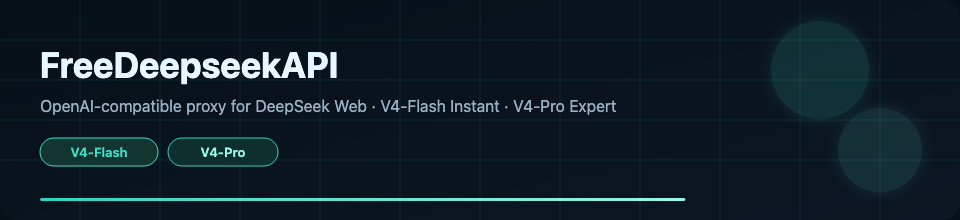
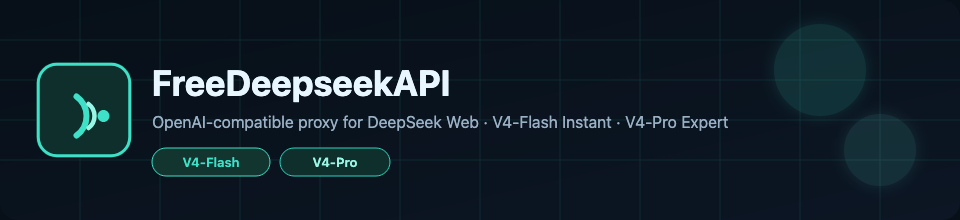
Docs
Changes:

- Add a teal mark to the README header and drop the loading GIF

Changed region(s): [[0.0312, 0.2182, 0.7812, 0.8182], [0.0312, 0.9, 0.7188, 0.9273]]

diff --git a/README.ru.md b/README.ru.md
@@ -1,12 +1,8 @@
 <div align="center">
 
-<img src="docs/assets/header.gif" alt="FreeDeepseekAPI" width="960" />
+<img src="docs/assets/header.png" alt="FreeDeepseekAPI" width="960" />
 
 [English](README.md) · **Русский** · [简体中文](README.zh.md)
-
-<br/>
-
-<img src="https://readme-typing-svg.demolab.com?font=IBM+Plex+Sans&weight=600&size=20&duration=2800&pause=900&color=3EE0C8&center=true&vCenter=true&width=720&lines=%D0%9B%D0%BE%D0%BA%D0%B0%D0%BB%D1%8C%D0%BD%D1%8B%D0%B9+API+%D0%BD%D0%B0%D0%B4+DeepSeek+Web;V4-Flash+Instant+%C2%B7+V4-Pro+Expert;%D0%9E%D0%B4%D0%BD%D0%BE+%D0%BD%D0%B0%D0%B6%D0%B0%D1%82%D0%B8%D0%B5%3A+Claude+Code+%C2%B7+Codex+%C2%B7+Hermes+%C2%B7+OpenClaw+%C2%B7+Cursor" alt="tagline" />
 
 <p>
   <a href="https://github.com/dekrezz/FreeDeepseekAPI/stargazers"><img src="https://img.shields.io/github/stars/dekrezz/FreeDeepseekAPI?style=for-the-badge&logo=github&color=3ee0c8&label=stars" alt="GitHub stars" /></a>

diff --git a/README.zh.md b/README.zh.md
@@ -1,12 +1,8 @@
 <div align="center">
 
-<img src="docs/assets/header.gif" alt="FreeDeepseekAPI" width="960" />
+<img src="docs/assets/header.png" alt="FreeDeepseekAPI" width="960" />
 
 [English](README.md) · [Русский](README.ru.md) · **简体中文**
-
-<br/>
-
-<img src="https://readme-typing-svg.demolab.com?font=IBM+Plex+Sans&weight=600&size=20&duration=2800&pause=900&color=3EE0C8&center=true&vCenter=true&width=720&lines=DeepSeek+Web+%E6%9C%AC%E5%9C%B0+OpenAI+%E5%85%BC%E5%AE%B9%E4%BB%A3%E7%90%86;V4-Flash+Instant+%C2%B7+V4-Pro+Expert;%E4%B8%80%E9%94%AE%E6%8E%A5%E5%85%A5+Claude+Code+%C2%B7+Codex+%C2%B7+Hermes+%C2%B7+OpenClaw+%C2%B7+Cursor" alt="tagline" />
 
 <p>
   <a href="https://github.com/dekrezz/FreeDeepseekAPI/stargazers"><img src="https://img.shields.io/github/stars/dekrezz/FreeDeepseekAPI?style=for-the-badge&logo=github&color=3ee0c8&label=stars" alt="GitHub stars" /></a>

diff --git a/README.md b/README.md
@@ -1,12 +1,8 @@
 <div align="center">
 
-<img src="docs/assets/header.gif" alt="FreeDeepseekAPI" width="960" />
+<img src="docs/assets/header.png" alt="FreeDeepseekAPI" width="960" />
 
 **English** · [Русский](README.ru.md) · [简体中文](README.zh.md)
-
-<br/>
-
-<img src="https://readme-typing-svg.demolab.com?font=IBM+Plex+Sans&weight=600&size=20&duration=2800&pause=900&color=3EE0C8&center=true&vCenter=true&width=720&lines=OpenAI-compatible+proxy+for+DeepSeek+Web;V4-Flash+Instant+%C2%B7+V4-Pro+Expert;One-click+Claude+Code+%C2%B7+Codex+%C2%B7+Hermes+%C2%B7+OpenClaw+%C2%B7+Cursor" alt="tagline" />
 
 <p>
   <a href="https://github.com/dekrezz/FreeDeepseekAPI/stargazers"><img src="https://img.shields.io/github/stars/dekrezz/FreeDeepseekAPI?style=for-the-badge&logo=github&color=3ee0c8&label=stars" alt="GitHub stars" /></a>
